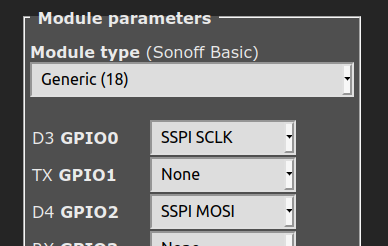
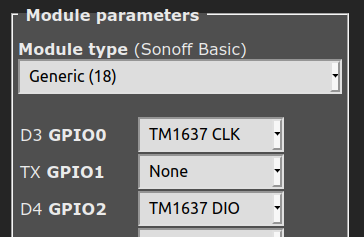
Made changes as per latest dev merge

Changed region(s): [[0.0302, 0.0295, 0.967, 1.0], [0.3626, 0.4726, 0.7857, 1.0]]

diff --git a/docs/Displays.md b/docs/Displays.md
@@ -33,16 +33,17 @@ See commands page for full list of available [Display Commands](Commands.md#disp
 
 ## DisplayMode Parameters
 
-The display driver is able to display predefined setups of text or user defined text. To display text using `DisplayText` set `DisplayMode` to `0`, or set `DisplayMode` to `1` for the HT16K33 dot-matrix display.
+The display driver (except the 7-segment TM1637 driver) is able to display predefined setups of text or user defined text. To display text using `DisplayText` set `DisplayMode` to `0`, or set `DisplayMode` to `1` for the HT16K33 dot-matrix display.
 
-Parameter	|	LCD Display	|	OLED Display	|	TFT Display
----	|	---	|	---	|	---
-0	|	DisplayText	|	DisplayText	|	DisplayText
-1	|	Time/Date	|	Time/Date	|	Time/Date
-2	|	Local sensors	|	Local sensors	|	Local sensors
-3	|	MQTT and Time/Date	|	Local sensors and Time/Date	|	Local sensors and Time/Date
-4	|	Local sensors	|	MQTT and local sensors	|	MQTT and local sensors
-5	|	MQTT and Time/Date	|	MQTT, local sensors and Time/Date	|	MQTT, local sensors and Time/Date
+
+Parameter	|	LCD Display	|	OLED Display	|	TFT Display  | 7-segment Display (TM1637)
+---	|	---	|	---	|	---     |    ----
+0	|	DisplayText	|	DisplayText	|	DisplayText  |    All [TM1637](TM1637.md) _Display-_ functions
+1	|	Time/Date	|	Time/Date	|	Time/Date    |    All [TM1637](TM1637.md) _Display-_ functions
+2	|	Local sensors	|	Local sensors	|	Local sensors   |   All [TM1637](TM1637.md) _Display-_ functions
+3	|	MQTT and Time/Date	|	Local sensors and Time/Date	|	Local sensors and Time/Date  |   All [TM1637](TM1637.md) _Display-_ functions
+4	|	Local sensors	|	MQTT and local sensors	|	MQTT and local sensors  |  All [TM1637](TM1637.md) _Display-_ functions
+5	|	MQTT and Time/Date	|	MQTT, local sensors and Time/Date	|	MQTT, local sensors and Time/Date | All [TM1637](TM1637.md) _Display-_ functions
 
 ## DisplayType Parameters *(TM1637 only)*
 

diff --git a/docs/TM1637.md b/docs/TM1637.md
@@ -59,8 +59,8 @@ The **TM1637** module needs to be connected to two GPIO pins and a 3.3V-5V power
 
 In _Tasmota_'s **Configuration -> Configure Module** page, assign:  
 
-1. `GPIOx` to `SSPI SCLK`
-2. `GPIOy` to `SSPI MOSI`
+1. `GPIOx` to `TM1637 CLK`
+2. `GPIOy` to `TM1637 DIO`
 <br><br>
 
 For example, if x=3 and y=4, then the module configuration would look like the following:  
